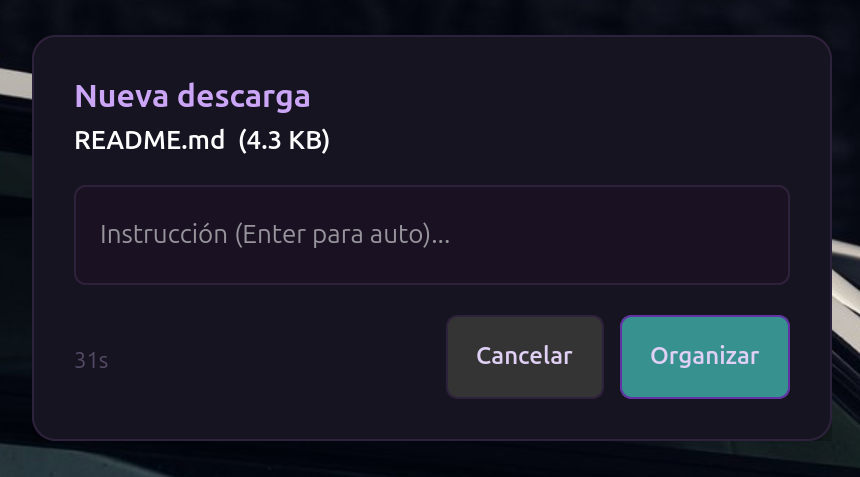
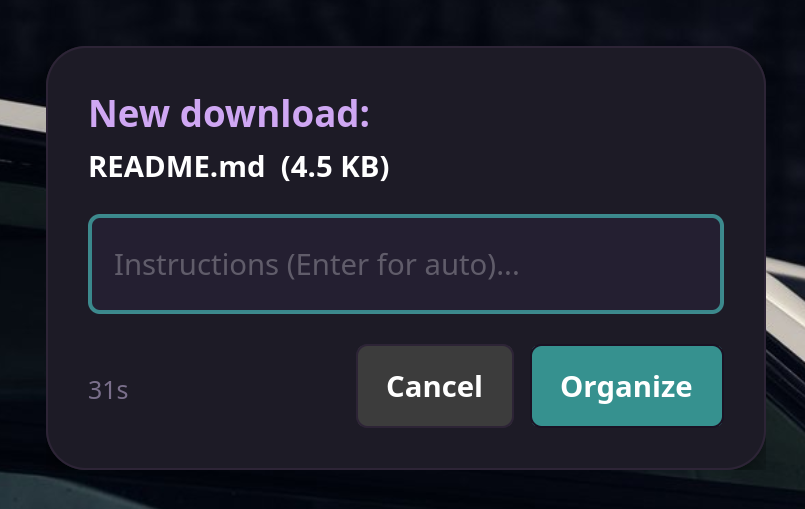
fix: ensure window transparency for rounded corners and update demo asset

diff --git a/src/download_organizer/ui/theme_manager.py b/src/download_organizer/ui/theme_manager.py
@@ -143,6 +143,12 @@ class ThemeManager:
         # NOTE: We scope everything to .main-window or specific classes to avoid leaking
         # into Preference Window UI which shares the same process/screen.
         css = f"""
+        .transparent-window {{ 
+            background-color: rgba(0,0,0,0); 
+            box-shadow: none; 
+            border: none; 
+        }}
+        
         .main-window {{
             background-color: {bg};
             color: {file_c};

diff --git a/src/download_organizer/ui/window.py b/src/download_organizer/ui/window.py
@@ -41,6 +41,7 @@ class DownloadDialog(Gtk.ApplicationWindow):
         
         self.set_resizable(False)
         self.set_decorated(False)
+        self.add_css_class("transparent-window")
         
         self.timeout_id = GLib.timeout_add(timeout_sec * 1000, self.on_timeout)
         self.time_left = timeout_sec
